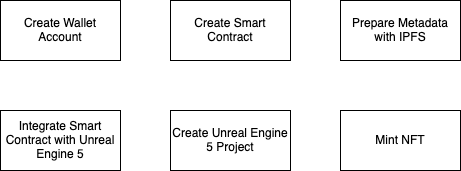
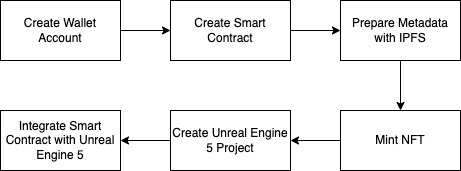
feat: bab 4 :rocket:

diff --git a/bab/3-desain-implementasi.tex b/bab/3-desain-implementasi.tex
@@ -296,3 +296,141 @@ Url dari audio yang sudah diupload akan diletakkan kedalam Metadata json, kemudi
 ke web3.storage.
 
 \section{Mint NFT}
+
+Di tahap ini dilakukan proses mint NFT dengan menggunakan \emph{smart contract} yang sudah dideploy sebelumnya.
+Remix IDE sudah menyediakan antarmuka untuk memanggil method-method yang ada di smart contract yang sudah terdeploy.
+
+\begin{figure}[H]
+  \centering
+
+  % Ubah dengan nama file gambar dan ukuran yang akan digunakan
+  \includegraphics[scale=0.3]{gambar/mint-nft.jpg}
+
+  % Ubah dengan keterangan gambar yang diinginkan
+  \caption{Tampilan Remix IDE untuk deployed contracts}
+  \label{fig:mintnft}
+\end{figure}
+
+Dapat juga dicek melalui etherscan. Domain etherscan yang digunakan adalah milik goerli karena wallet yang digunakan juga menggunakan goerli.
+Etherscan Goerli adalah sebuah platform yang memberikan berbagai macam layanan dan utilitas yang berguna dalam pengembangan smart contract di jaringan Goerli, yang merupakan salah satu jaringan pengujian pada Ethereum. Platform ini menyediakan berbagai fitur yang memungkinkan pengembang untuk menjelajahi, memantau, dan menganalisis smart contract dan transaksi yang terjadi di jaringan Goerli.
+
+Salah satu kegunaan utama dari Etherscan Goerli adalah untuk menjelajahi dan menganalisis smart contract. Pengembang dapat menggunakan platform ini untuk melihat detail dari suatu smart contract, termasuk kode sumbernya, fungsi-fungsi yang ada, dan variabel-variabel yang digunakan. Informasi ini sangat penting dalam memahami dan memeriksa kecerdasan kontrak sebelum diterapkan di jaringan Ethereum utama. Selain itu, Etherscan Goerli juga menyediakan alat untuk memeriksa riwayat transaksi, sehingga pengembang dapat melacak aliran nilai dan interaksi yang terjadi pada suatu smart contract.
+
+Selain menjelajahi dan menganalisis smart contract, Etherscan Goerli juga menyediakan utilitas untuk memantau dan melacak kinerja dan keadaan jaringan Goerli. Pengembang dapat memeriksa informasi tentang blok terbaru, hash blok, kecepatan transaksi, dan pemegang akun. Ini membantu pengembang dalam mengamati performa jaringan dan memastikan bahwa transaksi yang mereka kirimkan berjalan dengan baik di jaringan pengujian.
+
+Selain itu, Etherscan Goerli juga memberikan fitur untuk memverifikasi smart contract. Pengembang dapat mengirimkan kode sumber smart contract mereka ke platform ini untuk diverifikasi. Dengan melakukan verifikasi, pengembang dapat memastikan bahwa smart contract yang mereka kembangkan sesuai dengan apa yang diharapkan, dan memastikan bahwa tidak ada perubahan yang tidak diinginkan atau malware yang dimasukkan ke dalam kontrak.
+
+Selain fitur-fitur utama di atas, Etherscan Goerli juga menyediakan berbagai informasi terkait dengan jaringan Goerli, seperti harga gas, grafik transaksi, dan pemantauan kontrak yang populer. Semua informasi ini membantu pengembang dalam memperoleh pemahaman yang lebih baik tentang jaringan Goerli dan membantu mereka dalam mengembangkan dan menguji smart contract dengan lebih efektif.
+
+Dalam pengembangan smart contract, Etherscan Goerli memberikan alat yang sangat berharga untuk menjelajahi, memantau, menganalisis, dan memverifikasi smart contract di jaringan Goerli. Dengan menggunakan platform ini, pengembang dapat memperoleh wawasan yang mendalam tentang keadaan jaringan, memeriksa dan memverifikasi kecerdasan kontrak, serta memastikan performa yang baik dalam pengujian smart contract sebelum diterapkan di jaringan Ethereum utama.
+
+\section{Create Unreal Engine 5 Project}
+
+Proyek Unreal Engine 5 dibuat dengan mengikuti serangkaian langkah yang penting dan harus diikuti dengan cermat. Pertama, Unreal Engine 5 diinstal dari situs resmi Epic Games dan memastikan persyaratan sistem yang diperlukan terpenuhi oleh komputer. Setelah diinstal, Unreal Engine Launcher dibuka dan proyek baru dibuat dengan memilih jenis proyek yang sesuai dengan tujuan. Setelah masuk ke Unreal Editor, pengaturan proyek dikonfigurasi seperti resolusi layar, sistem fisika, kontrol input, dan lainnya sesuai kebutuhan.
+
+Selanjutnya, dunia (World) dibuat di mana permainan atau pengalaman berlangsung. Alat bawaan Unreal Engine 5 seperti Landscape Editor digunakan untuk membuat lingkungan yang realistis dengan menambahkan peta, objek, karakter, dan lainnya. Selanjutnya, objek dan karakter dibuat atau diimpor ke dalam proyek. Aset dapat dibuat sendiri atau model 3D yang sudah ada diimpor dalam berbagai format seperti FBX atau OBJ. Setelah itu, animasi, tekstur, suara, dan perilaku yang diinginkan ditambahkan.
+
+Selanjutnya, bahasa pemrograman visual bernama Blueprint digunakan untuk membuat logika permainan. Dengan Blueprint, alur permainan, skrip perilaku objek, pengaturan kamera, penanganan interaksi pemain, dan lainnya dapat dibuat. Jika memiliki pengetahuan dalam pemrograman C++, bahasa ini juga dapat digunakan dalam pengembangan proyek. Efek visual dan suara juga dapat diterapkan menggunakan fitur dan alat bawaan Unreal Engine 5, seperti pencahayaan, partikel, efek cuaca, dan suara latar.
+
+Setelah proyek selesai dibuat, pengujian dan iterasi dilakukan. Proyek dijalankan di Unreal Editor atau mode standalone untuk melihat bagaimana proyek berjalan, bug diidentifikasi dan diperbaiki, serta pengujian dilakukan untuk memastikan kualitas dan kinerja yang baik. Terakhir, setelah proyek selesai dan telah diuji dengan baik, proyek dapat didistribusikan kepada pengguna akhir. Unreal Engine 5 menyediakan berbagai opsi distribusi, termasuk platform PC, konsol, dan virtual reality (VR), sesuai dengan kebutuhan proyek.
+
+Proyek Unreal Engine yang dibuat sederhana saja, namun tetap dapat berinteraksi dengan menggunakan blueprints.
+
+Kemudian perlu juga menambahkan beberapa plugin yang akan digunakan nantinya seperti Runtime Audio Importer, IPFS, dan Emergence.
+
+\subsection{Runtime Audio Importer}
+Runtime Audio Importer adalah sebuah fitur yang memungkinkan pengguna untuk mengimpor audio dalam berbagai format secara langsung saat berjalan. Fitur ini menawarkan kecepatan transkoding yang cepat dan mendukung format audio utama seperti MP3, WAV, FLAC, OGG Vorbis, dan BINK. Selain itu, fitur ini juga mendukung format RAW seperti int8, uint8, int16, uint16, int32, uint32, dan float32.
+
+Runtime Audio Importer memiliki perilaku yang sama dengan gelombang suara biasa, termasuk SoundCue dan MetaSounds (mulai dari versi 5.2). Fitur ini juga secara otomatis mendeteksi format audio yang digunakan dan mendukung fungsionalitas streaming audio. Selain itu, pengguna juga dapat menangkap audio dari perangkat input seperti mikrofon, mengekspor gelombang suara ke file terpisah, dan menggunakan aset suara yang telah diimpor sebelumnya.
+
+Yang menarik, Runtime Audio Importer tidak membutuhkan pustaka statis atau dependensi eksternal tertentu. Fitur ini mendukung semua perangkat yang tersedia seperti Android, iOS, Windows, Mac, Linux, dan sebagainya.
+
+\subsection{Emergence}
+Emergence adalah protokol Web3 yang ditujukan untuk pengembang game, yang terintegrasi dengan mesin permainan seperti Unreal Engine dan Unity melalui SDK berbasis Web3. Emergence memberdayakan pengembang game dengan otentikasi dompet, smart contract, sistem avatar, dan layanan inventaris NFT. Alat yang mudah digunakan dan kreatif memungkinkan pemain untuk masuk dengan mudah menggunakan dompet kripto mereka dan bermain dengan persona pilihan mereka secara transparan. Sementara itu, Emergence memberikan alat kepada pengembang game untuk memanfaatkan item NFT pengguna dan menyematkannya ke dalam permainan mereka secara mulus.
+
+Protokol Emergence menyediakan alat yang diperlukan agar para pencipta dapat membangun dunia-dunia yang interoperabel, di mana pengguna dapat membuat persona berbasis rantai blok mereka sendiri dan memuat avatar, inventaris, dan data ke dalam dunia metaverse pilihan mereka.
+
+Dengan menyediakan alat seperti Layanan Inventaris, para pencipta dapat melihat potensi NFT dari segi utilitas. Bukan hanya dalam desain aslinya, tetapi juga dengan mempertimbangkan penggunaan NFT sebagai GameObjects aktual dalam dunia virtual mereka. Pengembang dapat menggunakan Layanan Inventaris Emergence untuk menyimpan metadata dinamis ke dalam NFT pengguna mereka. Hal ini membuka peluang besar untuk memikirkan tentang gaming berbasis Web3 yang baru dan apa yang dapat dicapai oleh NFT, serta bagaimana NFT tersebut berkembang melalui pengalaman metaverse. NFT lebih dari sekadar PFP (profil foto). Mereka dapat dianggap sebagai objek permainan yang persisten dan interoperabel, membawa inovasi baru dalam penceritaan, interaksi, pengalaman, dan sebagainya.
+
+SDK Emergence menyediakan akses kode tingkat rendah dan tingkat tinggi untuk berinteraksi dengan jaringan EVM (Ethereum Virtual Machine) dan dompet. Mulai dari mengotentikasi pengguna dengan tanda tangan digital yang memungkinkan bentuk otentikasi universal baru, hingga membaca dan menulis ke smart contract. Dengan menyediakan alat seperti Sistem Avatar dan Layanan Inventaris, Emergence memberikan serangkaian fungsi agar pencipta metaverse apa pun dapat dengan mudah memanfaatkan kekuatan Web3.
+
+\section{Integrate Smart Contract with Unreal Engine 5}
+
+Proses integrasi smart contract dengan Unreal Engine 5 ini membutuhkan pengetahuan tentang blueprints. Proses ini dimulai dengan menyiapkan kembali proyek Unreal Engine 5
+Dengan menggunakan plugin Emergence kita dapat menentukan contract dan juga menghubungkan blueprints dengan contracts yang sudah dideploy.
+
+Plugin ini memiliki asset-asset yang akan membantu seperti asset contract dan deployed contract.
+
+\begin{figure}[H]
+  \centering
+
+  % Ubah dengan nama file gambar dan ukuran yang akan digunakan
+  \includegraphics[scale=0.3]{gambar/web3emergence.jpg}
+
+  % Ubah dengan keterangan gambar yang diinginkan
+  \caption{Tampilan Asset yang disediakan Emergence}
+  \label{fig:web3emergence}
+\end{figure}
+
+Emergence contract asset digunakan oleh berbagai metode dan objek sebagai deskriptor antarmuka pemrograman suatu kontrak. Sebagian besar datanya berasal dari ABI (Application Binary Interface) kontrak tersebut.
+
+Aset Kontrak Emergence merujuk pada komponen yang digunakan oleh berbagai metode dan objek dalam ekosistem Emergence untuk menjelaskan antarmuka pemrograman suatu kontrak. Aset ini berfungsi sebagai deskriptor yang memberikan informasi penting tentang struktur kontrak, fungsi, dan data yang terkait. Sebagian besar data yang terkait dengan aset ini berasal dari ABI kontrak, yang mendefinisikan bagaimana kontrak dapat diinteraksikan dan diakses oleh entitas eksternal.
+
+Aset Kontrak Emergence memainkan peran penting dalam memfasilitasi integrasi dan interaksi yang lancar antara berbagai komponen dalam ekosistem Emergence. Dengan memanfaatkan ABI kontrak, pengembang dapat berkomunikasi dan berinteraksi dengan kontrak pintar secara efektif, memungkinkan mereka untuk memanggil fungsi spesifik, mengambil data, dan melakukan operasi lain yang didefinisikan dalam antarmuka kontrak.
+
+Data yang disimpan dalam Aset Kontrak Emergence mencakup informasi seperti tanda tangan fungsi kontrak, parameter masukan dan keluaran, definisi acara, dan metadata lain yang diperlukan untuk berinteraksi dengan kontrak. Data ini memungkinkan komponen lain dalam ekosistem Emergence, seperti kontrak pintar, aplikasi, atau antarmuka pengguna, untuk memahami dan memanfaatkan fungsionalitas yang ditawarkan oleh kontrak.
+
+Secara keseluruhan, Aset Kontrak Emergence berfungsi sebagai deskriptor yang menggambarkan antarmuka pemrograman suatu kontrak dalam ekosistem Emergence. Mereka memungkinkan integrasi, komunikasi, dan interaksi yang lancar dengan kontrak pintar dengan menyediakan informasi penting yang berasal dari ABI kontrak. Dengan memanfaatkan aset ini, pengembang dapat efektif menggunakan fungsionalitas yang ditawarkan oleh kontrak dan membangun aplikasi terdesentralisasi dan layanan inovatif dalam ekosistem Emergence.
+
+\begin{figure}[H]
+  \centering
+
+  % Ubah dengan nama file gambar dan ukuran yang akan digunakan
+  \includegraphics[scale=0.6]{gambar/emergencecontract.png}
+
+  % Ubah dengan keterangan gambar yang diinginkan
+  \caption{Tampilan Asset Kontrak Emergence}
+  \label{fig:emergencecontract}
+\end{figure}
+
+Aset Kontrak Emergence yang Dideploy digunakan oleh berbagai metode dan objek sebagai referensi ke kontrak tertentu yang telah dideploy di dalam blockchain. Aset ini terdiri dari aset Blockchain, aset Kontrak, dan alamat kontrak.
+
+Aset Kontrak Emergence yang Dideploy adalah komponen yang digunakan dalam ekosistem Emergence untuk mengidentifikasi dan berinteraksi dengan kontrak pintar yang telah dideploy di dalam blockchain. Aset ini mencakup informasi yang penting untuk mengarahkan aplikasi atau komponen lain ke kontrak yang tepat untuk berinteraksi dengannya.
+
+Komponen utama dari Aset Kontrak Emergence yang Dideploy adalah aset Blockchain yang merujuk pada blockchain tempat kontrak dideploy, aset Kontrak yang menggambarkan kontrak pintar secara keseluruhan, dan alamat kontrak yang merupakan alamat unik yang menunjukkan lokasi kontrak di dalam blockchain.
+
+Dengan menggunakan Aset Kontrak Emergence yang Dideploy, pengembang dapat dengan mudah mengakses kontrak pintar yang telah dideploy di dalam blockchain. Mereka dapat memanggil fungsi kontrak, membaca dan menulis data, serta berinteraksi dengan kontrak untuk menjalankan logika bisnis yang diinginkan.
+
+Secara keseluruhan, Aset Kontrak Emergence yang Dideploy berfungsi sebagai referensi yang mengarahkan aplikasi atau komponen lain ke kontrak pintar yang telah dideploy di dalam blockchain. Dengan menggunakan informasi yang terkandung dalam aset ini, pengembang dapat secara efisien berinteraksi dengan kontrak pintar dan memanfaatkan fungsionalitas yang ditawarkan oleh kontrak tersebut dalam ekosistem Emergence.
+
+\begin{figure}[H]
+  \centering
+
+  % Ubah dengan nama file gambar dan ukuran yang akan digunakan
+  \includegraphics[scale=0.6]{gambar/emergencedeployedcontract.png}
+
+  % Ubah dengan keterangan gambar yang diinginkan
+  \caption{Tampilan Deployed Contracts dari Emergence}
+  \label{fig:emergencedeployedcontract}
+\end{figure}
+
+Dari asset-asset tersebut akan diread oleh blueprint component dari emergence.
+
+\subsection{Read Method}
+
+\begin{figure}[H]
+  \centering
+
+  % Ubah dengan nama file gambar dan ukuran yang akan digunakan
+  \includegraphics[scale=0.6]{gambar/readmethod.png}
+
+  % Ubah dengan keterangan gambar yang diinginkan
+  \caption{Tampilan Blueprint Read Method}
+  \label{fig:readmethod}
+\end{figure}
+
+Read method ini memiliki kegunaan untuk memanggil read method pada smart contract yang diberikan. Disini diberikan
+input berupa smart contract yang dideploy, nama method, dan content yaitu parameter yang akan diberikan pada method smart contract.
+
+Kemudian dari method tersebut akan mendecode NFT yang didapat dan mendapatkan format metadata. Di metadata tersebut akan terdapat field \texttt{audio\_url}.
+Field ini mengandung link url ke asset audio. Audio ini kemudian dapat diproses dan diplay dengan blueprints pada Unreal Engine 5.

diff --git a/bab/4-pengujian-analisis.tex b/bab/4-pengujian-analisis.tex
@@ -1,19 +1,32 @@
-\chapter{PENGUJIAN DAN ANALISIS}
-\label{chap:pengujiananalisis}
+\chapter{HASIL DAN PEMBAHASAN}
+\label{chap:hasildanpembahasan}
 
 % Ubah bagian-bagian berikut dengan isi dari pengujian dan analisis
 
-Pada penelitian ini dipaparkan \lipsum[1][1-5]
 
-\section{Skenario Pengujian}
-\label{sec:skenariopengujian}
+Pada penelitian ini dipaparkan hasil pengujian berupa implementasi Unreal Engine 5 yang dapat menjalankan sistem dari Smart Contract, serta melakukan pengujian terkait
+dengan data audio yang diload selama proses sistem berjalan hingga ke tahap pemutaran audio.
 
-Pengujian dilakukan dengan \lipsum[1-2]
+\section{Hasil Pembuatan Wallet Account}
+Pembuatan wallet account dilakukan dengan Metamask. Pada platform metamask dapat dilakukan pembuatan akun dengan menginstall extension browsernya. Setelah terbuat akunnya maka perlu
+digunakan faucet untuk mengisi ETH. ETH yang didapat adalah sejumlah 13 GoerliETH. ETH ini sudah lebih dari cukup untuk digunakan. Kemudian dibuat juga akun kedua dan diisikan dengan GoerliETH.
+Akun kedua juga dapat digunakan untuk pengujian.
+
+\section{Hasil Pembuatan Smart Contract}
+Smart Contract yang dibuat dapat digunakan untuk mint NFT. Deployment dilakukan dengan Environment Injected Provider Metamask.
+Metamask yang digunakan adalah akun yang sudah dibuat sebelumnya. Contract yang dibuat dideploy sudah digunakan untuk mint NFT.
+
+\section{Hasil Pembuatan Metadata dengan IPFS}
+Metadata yang dibuat di IPFS sudah dapat diakses melalui gatewaynya. Contohnya untuk nft-1.json
+
+\section{Hasil Mint NFT}
+\section{Hasil Pembuatan Project Pada Unreal Engine 5}
+\section{Hasil Integrasi Kontrak dengan Unreal Engine 5}
 
 \section{Evaluasi Pengujian}
 \label{sec:analisispengujian}
 
-Dari pengujian yang \lipsum[1]
+Dari pengujian yang telah dilakukan didapatkan bahwa
 
 % Contoh pembuatan tabel
 \begin{longtable}{|c|c|c|}

diff --git a/pustaka/tanda-hubung.tex b/pustaka/tanda-hubung.tex
@@ -23,4 +23,8 @@
   pin-tar
   cang-gih
   pe-mi-lik
+  ber-har-ga
+  et-he-re-um
+  kon-trak
+  to-ken
 }
